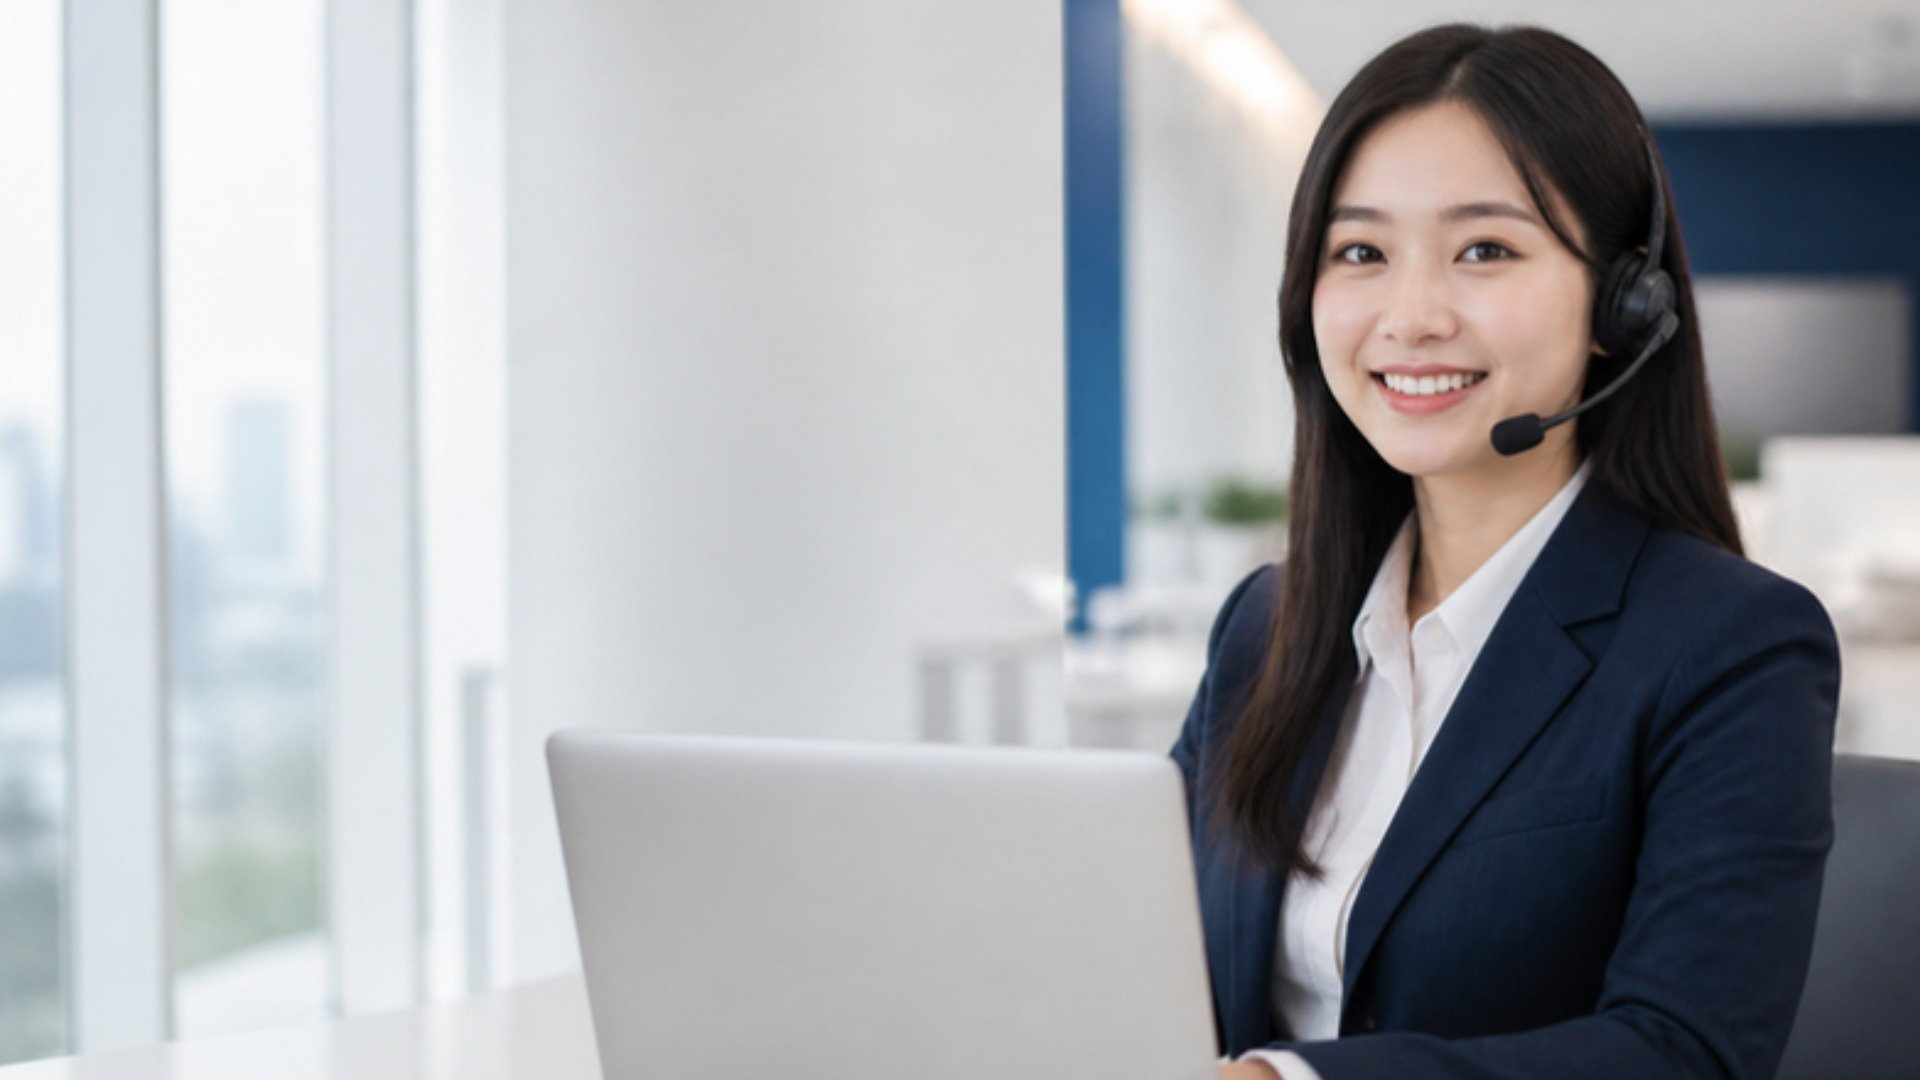
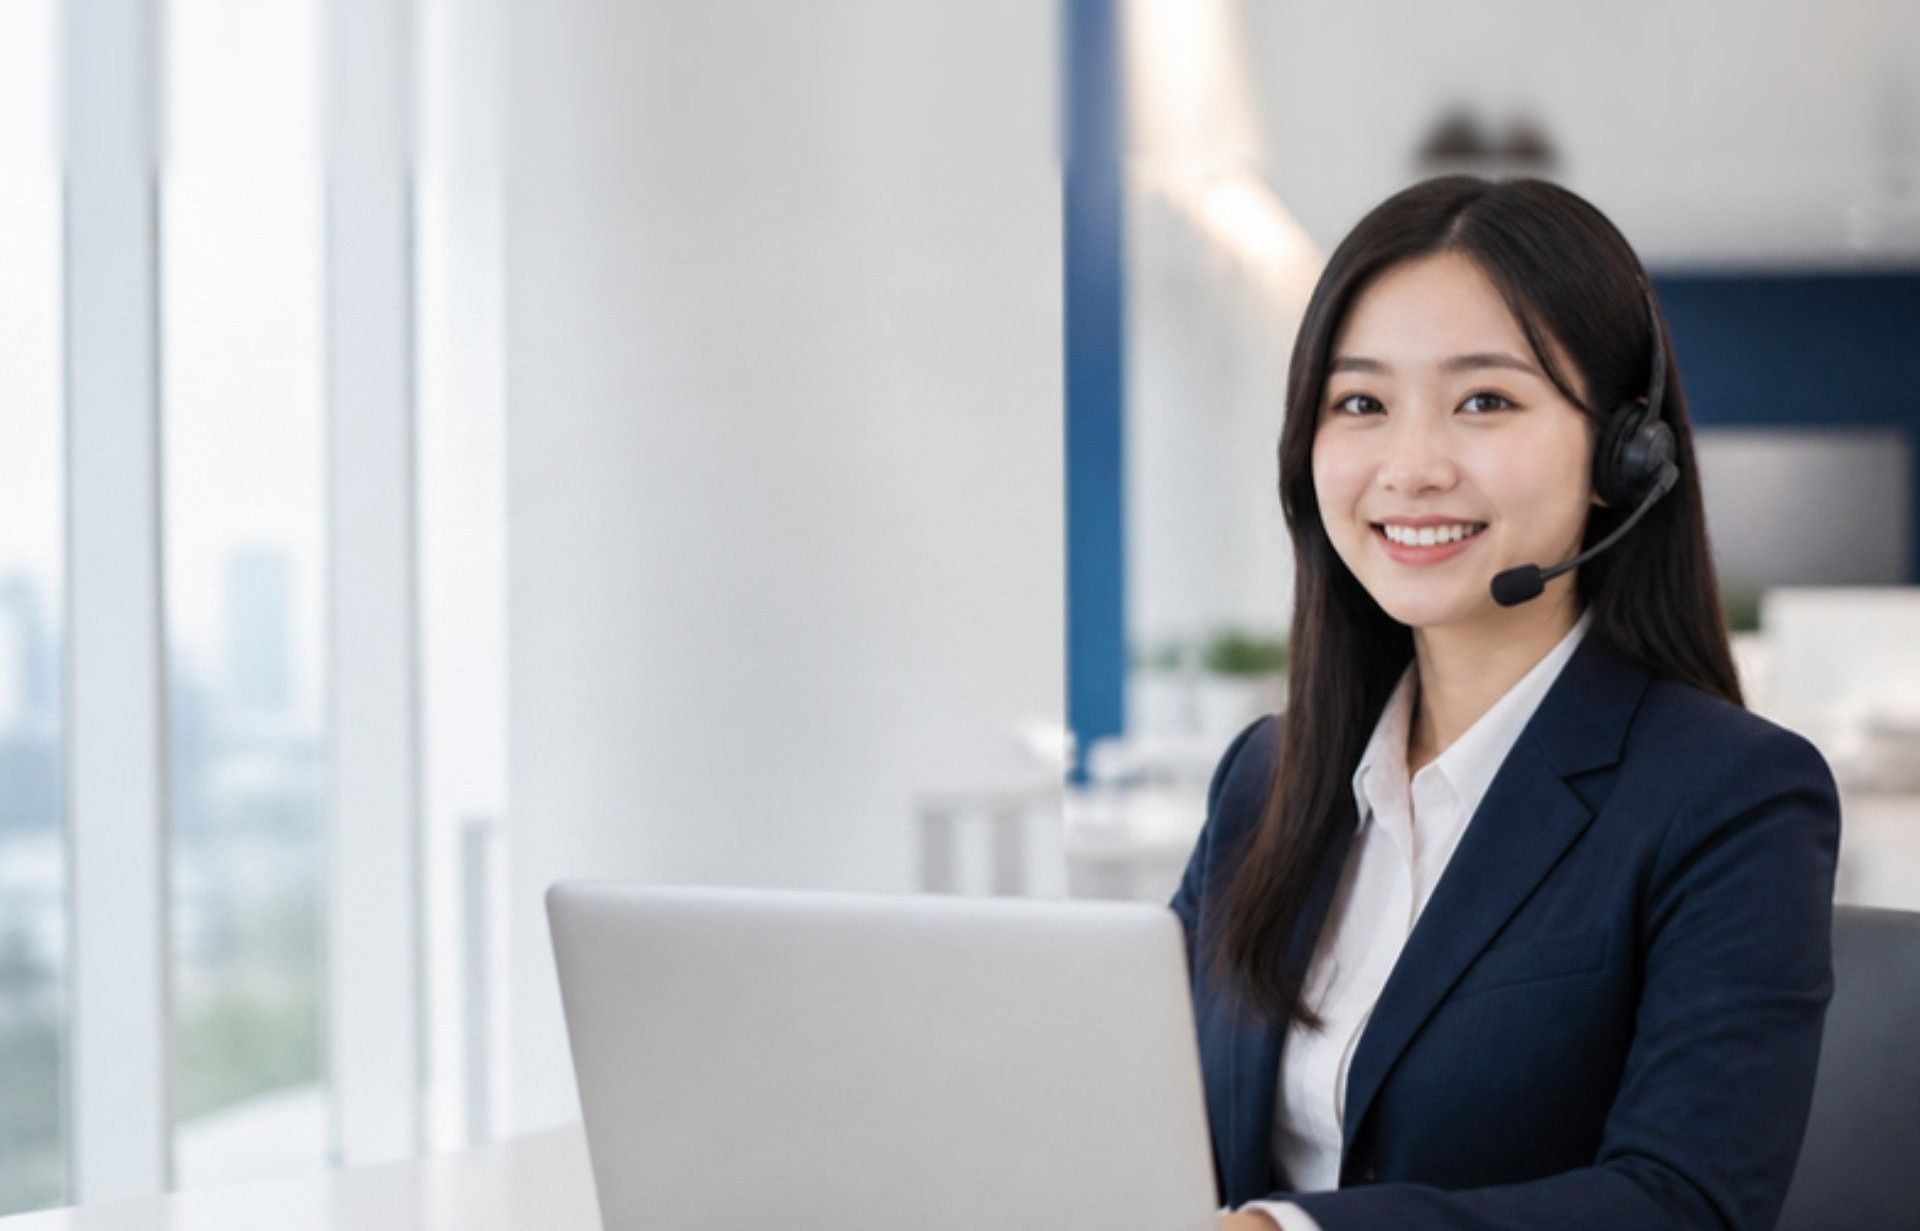
서브 배너: 흐림 확장 제거, 배너 높이 확대·인물/트럭 중심 배치, 고객센터·차주구인 사진 상단 여백 보강
Claude-Session: https://claude.ai/code/session_01HrPHBGvkwXCYdnDRskrNQx

diff --git a/src/styles.css b/src/styles.css
@@ -1659,14 +1659,25 @@ p, li, dd { text-wrap: pretty; }
 .hero__en { font-size: clamp(2.24rem, 5.92vw, 5.28rem); }
 @media (max-width: 699px) { .hero__en { font-size: clamp(2rem, 9.6vw, 2.72rem); } }
 
-/* 서브 배너(사진형): 메뉴 뒤는 흐린 확장 배경, 사진 본체는 메뉴 아래에서 시작 → 인물 머리끝까지 노출 */
-.page-head--photo img.page-head__blur { inset: 0; height: 100%; object-position: center top; filter: blur(26px) brightness(.8) saturate(1.1); transform: scale(1.15); animation: none; }
-.page-head--photo img.page-head__img { top: var(--header-h); height: calc(100% - var(--header-h)); object-position: center 4%; transform-origin: center top; animation: kb-top 18s ease-out both;
-  -webkit-mask-image: linear-gradient(180deg, transparent 0, #000 46px); mask-image: linear-gradient(180deg, transparent 0, #000 46px); }
-@keyframes kb-top { from { transform: scale(1.08); } to { transform: scale(1); } }
-.page-head--photo img[src*="banner_contact"] { object-position: 70% 6%; }
-.page-head--photo img[src*="biz_warehouse"], .page-head--photo img[src*="biz_consulting"] { object-position: center 12%; }
-@media (prefers-reduced-motion: reduce) { .page-head--photo img.page-head__img { animation: none; } }
+/* 서브 배너(사진형): 사진 전체가 메뉴 뒤까지 깔리되, 배너를 사진 비율에 가깝게 키워 인물·트럭이 잘리지 않고 중심에 보이도록 */
+.page-head--photo { min-height: min(52vw, 760px); }
+.page-head--photo img.page-head__img { object-position: center 30%; transform-origin: center center; animation: kb 18s ease-out both; }
+.page-head--photo::after { background: linear-gradient(90deg, rgba(6,18,42,.72) 0%, rgba(6,18,42,.35) 45%, rgba(6,18,42,0) 72%), linear-gradient(180deg, rgba(6,18,42,.38) 0, transparent 22%), linear-gradient(0deg, rgba(6,18,42,.4), transparent 40%); }
+.page-head--photo img[src*="banner_contact"] { object-position: 62% 20%; }
+.page-head--photo img[src*="banner_drivers"] { object-position: 55% 30%; }
+.page-head--photo img[src*="banner_talent"] { object-position: 70% 25%; }
+.page-head--photo img[src*="biz_warehouse"] { object-position: 75% 30%; }
+.page-head--photo img[src*="biz_consulting"] { object-position: 40% 25%; }
+.page-head--photo img[src*="biz_corporate"] { object-position: 60% 55%; }
+@media (max-width: 767px) {
+  .page-head--photo { min-height: 520px; }
+  .page-head--photo img[src*="banner_contact"] { object-position: 72% 20%; }
+  .page-head--photo img[src*="banner_drivers"] { object-position: 32% 30%; }
+  .page-head--photo img[src*="banner_talent"] { object-position: 76% 25%; }
+  .page-head--photo img[src*="biz_warehouse"] { object-position: 78% 30%; }
+  .page-head--photo img[src*="biz_consulting"] { object-position: 22% 25%; }
+  .page-head--photo img[src*="biz_corporate"] { object-position: 62% 55%; }
+}
 
 /* 회사소개 배너: SAMWON 로고 클로즈업 → 줌아웃, 글자 라인을 따라 흐르는 광택 */
 .page-head--logo { background: radial-gradient(120% 140% at 78% 45%, #12408a 0%, #0a2556 38%, #050f26 78%); }
@@ -1689,4 +1700,3 @@ p, li, dd { text-wrap: pretty; }
 @media (prefers-reduced-motion: reduce) { .ph-logo, .ph-logo__mark::after { animation: none; } }
 .ph-logo { width: min(42vw, 700px); right: 4%; }
 @media (min-width: 768px) { .page-head--logo p { max-width: 25em; } }
-.page-head--photo img[src*="biz_corporate"] { object-position: 60% 42%; }

diff --git a/src/components/PageHead.jsx b/src/components/PageHead.jsx
@@ -16,7 +16,6 @@ export default function PageHead({ label, title, desc, crumb = [], subnav, docTi
             <div className="ph-logo__mark" style={{ '--logo': `url(${asset('samwon_logo.svg')})` }} />
           </div>
         )}
-        {image && !logo && <img className="page-head__blur" src={asset(image)} alt="" aria-hidden="true" />}
         {image && !logo && <img className="page-head__img" src={asset(image)} alt="" />}
         <div className="wrap page-head__in">
           {label && <div className="page-head__label">{titleCase(label)}</div>}
